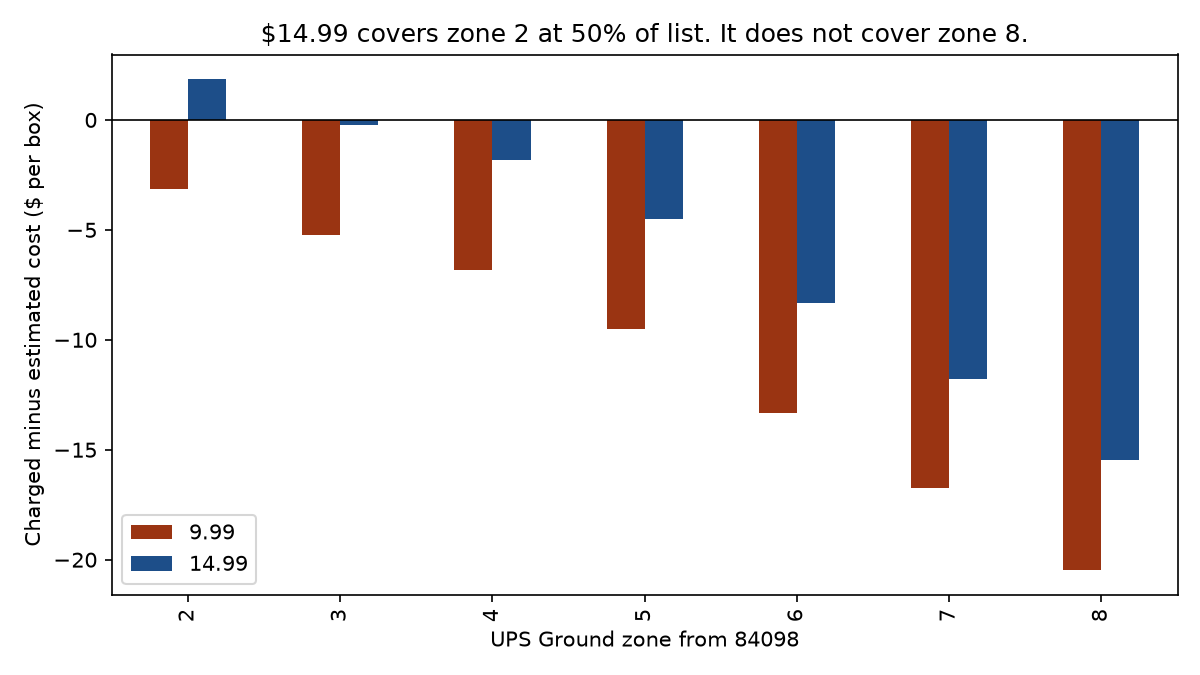
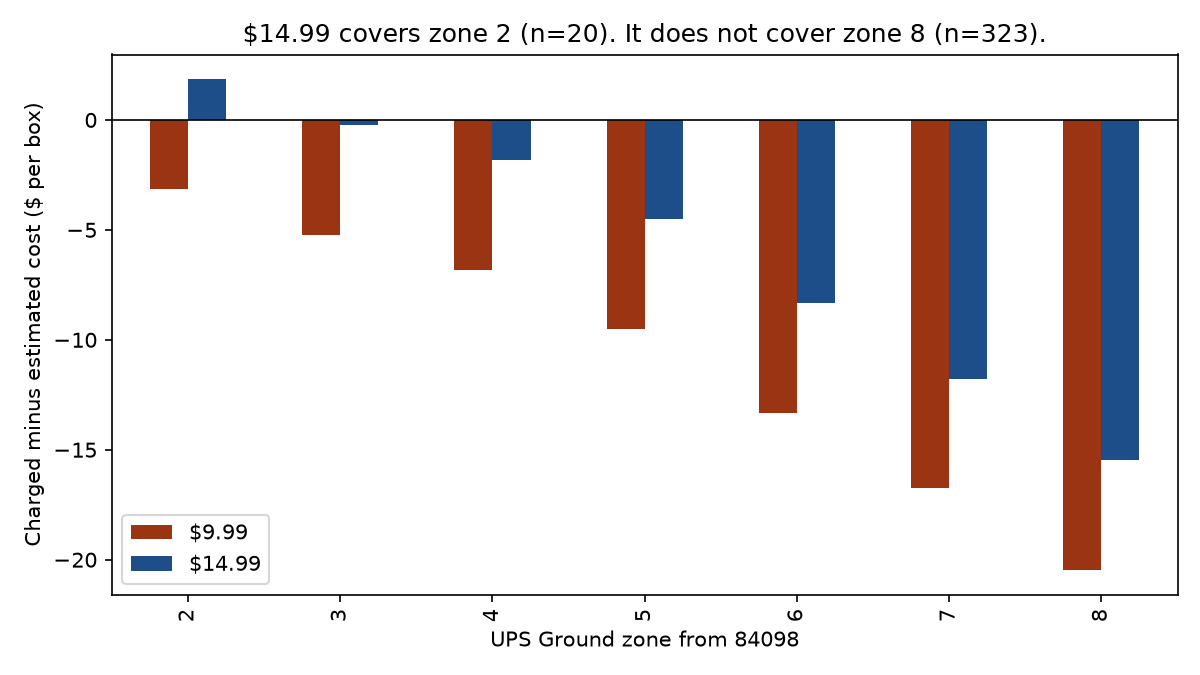
Put the zone chart on the README and name the sample size

Changed region(s): [[0.185, 0.0311, 0.8633, 0.0622], [0.1542, 0.7778, 0.2158, 0.8711]]

diff --git a/src/make_figures.py b/src/make_figures.py
@@ -5,27 +5,30 @@ import pandas as pd
 tab = pd.read_csv(Path("outputs/orders_by_zone_rate.csv"), index_col=0)
 tab = tab.drop(index="All", errors="ignore")
 tab.index = tab.index.astype(float).astype(int)
+tab = tab.rename(columns={"9.99": "$9.99", "14.99": "$14.99"})
 rates = pd.read_csv(Path("data/public/ground_40lb_list.csv")).set_index("zone")
 cost = rates["list_rate"] * 0.50 + 3.60
 per = pd.DataFrame({
-    "9.99": 9.99 - cost,
-    "14.99": 14.99 - cost,
+    "$9.99": 9.99 - cost,
+    "$14.99": 14.99 - cost,
 }).loc[tab.index]
 
 fig, ax = plt.subplots(figsize=(8, 4.5))
 per.plot.bar(ax=ax, color=["#9a3412", "#1d4e89"])
 ax.axhline(0, color="black", linewidth=0.8)
-ax.set_title("$14.99 covers zone 2 at 50% of list. It does not cover zone 8.")
+ax.set_title("$14.99 covers zone 2 (n=20). It does not cover zone 8 (n=323).")
 ax.set_ylabel("Charged minus estimated cost ($ per box)")
 ax.set_xlabel("UPS Ground zone from 84098")
 fig.tight_layout()
 fig.savefig(Path("outputs/figures/fig1_subsidy_by_zone.png"), dpi=150)
+plt.close()
 
 fig, ax = plt.subplots(figsize=(8, 4.5))
-tab[["9.99", "14.99"]].plot.bar(ax=ax, stacked=True, color=["#9a3412", "#1d4e89"])
-ax.set_title("Zones 5–8 hold the book")
+tab[["$9.99", "$14.99"]].plot.bar(ax=ax, stacked=True, color=["#9a3412", "#1d4e89"])
+ax.set_title("Zones 5–8 hold the book (1,196 of 1,330)")
 ax.set_ylabel("Zoned orders")
 ax.set_xlabel("UPS Ground zone from 84098")
 fig.tight_layout()
 fig.savefig(Path("outputs/figures/fig2_volume_by_zone.png"), dpi=150)
+plt.close()
 print("wrote outputs/figures")

diff --git a/README.md b/README.md
@@ -2,7 +2,9 @@
 
 $9.99 Light did not cover this book. The May 2019 move to $14.99 cut the per-box hole by about $5 and did not close zones 6–8, which held the volume.
 
-![Charged minus estimated cost by zone. $14.99 covers zone 2 at 50% of list. It does not cover zone 8.](outputs/figures/fig1_subsidy_by_zone.png)
+![Charged minus estimated cost by zone at 50% of list. Zone 2 is the only bar above zero.](outputs/figures/fig1_subsidy_by_zone.png)
+
+Zones 5–8 are 1,196 of 1,330 zoned orders. The zone 2 bar is 20 orders.
 
 ## What this is / is not
 
@@ -17,9 +19,22 @@ Order-level files are local only and are not in this repo. Shareable outputs are
 3. `outputs/figures/fig2_volume_by_zone.png` — where the orders sat.
 4. `outputs/orders_by_zone_rate.csv` — the counts behind both figures.
 
+## Method
+
+Shipper is 27 x 17 x 12 in, 9 lb actual. UPS daily divisor 139 makes billable weight 40 lb. ZIP3 joined to the origin-84098 Ground zone chart. Paid, not cancelled, US, no HI/AK. 1,548 orders, 1,330 zoned, 218 with no zip excluded.
+
+## Result
+
+488 orders at $9.99, 842 at $14.99. At 50 percent of list plus $3.60 residential, about -$14 a box, then -$9 a box after the rate moved to $14.99.
+
+## Limits
+
+Discount is a scenario, not a billed rate. A recalled deeper account discount is labeled unverified in the memo. Fuel is excluded. The dropped orders are mostly CA, NY, FL, TX, so the zoned hole may be understated.
+
+
 ## How to run
 
-From the project root, with the venv on:
+From the project root, with the venv on, this rebuilds the figures from the checked-in aggregates:
 
 ```powershell
 python src\make_figures.py

diff --git a/docs/decision.md b/docs/decision.md
@@ -1,8 +1,8 @@
-# Boxinet Light rate vs 40 lb UPS Ground
+# Loss-leader carton vs 40 lb UPS Ground
 
-Decision: $9.99 was not an expectable loss on this book. $14.99 cut the per-box hole by about $5 and did not close zones 6–8, which held the volume.
+Decision: $9.99 did not cover this book. $14.99 cut the per-box hole by about $5 and did not close zones 6–8, which held the volume.
 
-Unit: paid US Boxinet, UPS Ground, 27 x 17 x 12 in, 9 lb actual, 40 lb DIM, origin 84098. Sheet-only was USPS and is out. HI/AK out.
+Unit: paid US loss-leader carton, UPS Ground, 27 x 17 x 12 in, 9 lb actual, 40 lb DIM, origin 84098. Sheet-only was USPS and is out. HI/AK out.
 
 Population: 1,548 paid Light orders. 1,330 zoned. 218 had no shipping or billing zip (mostly CA, NY, FL, TX) and are excluded. Zoned split: 488 at $9.99, 842 at $14.99. Zones 5–8 are 1,196 of 1,330.
 
